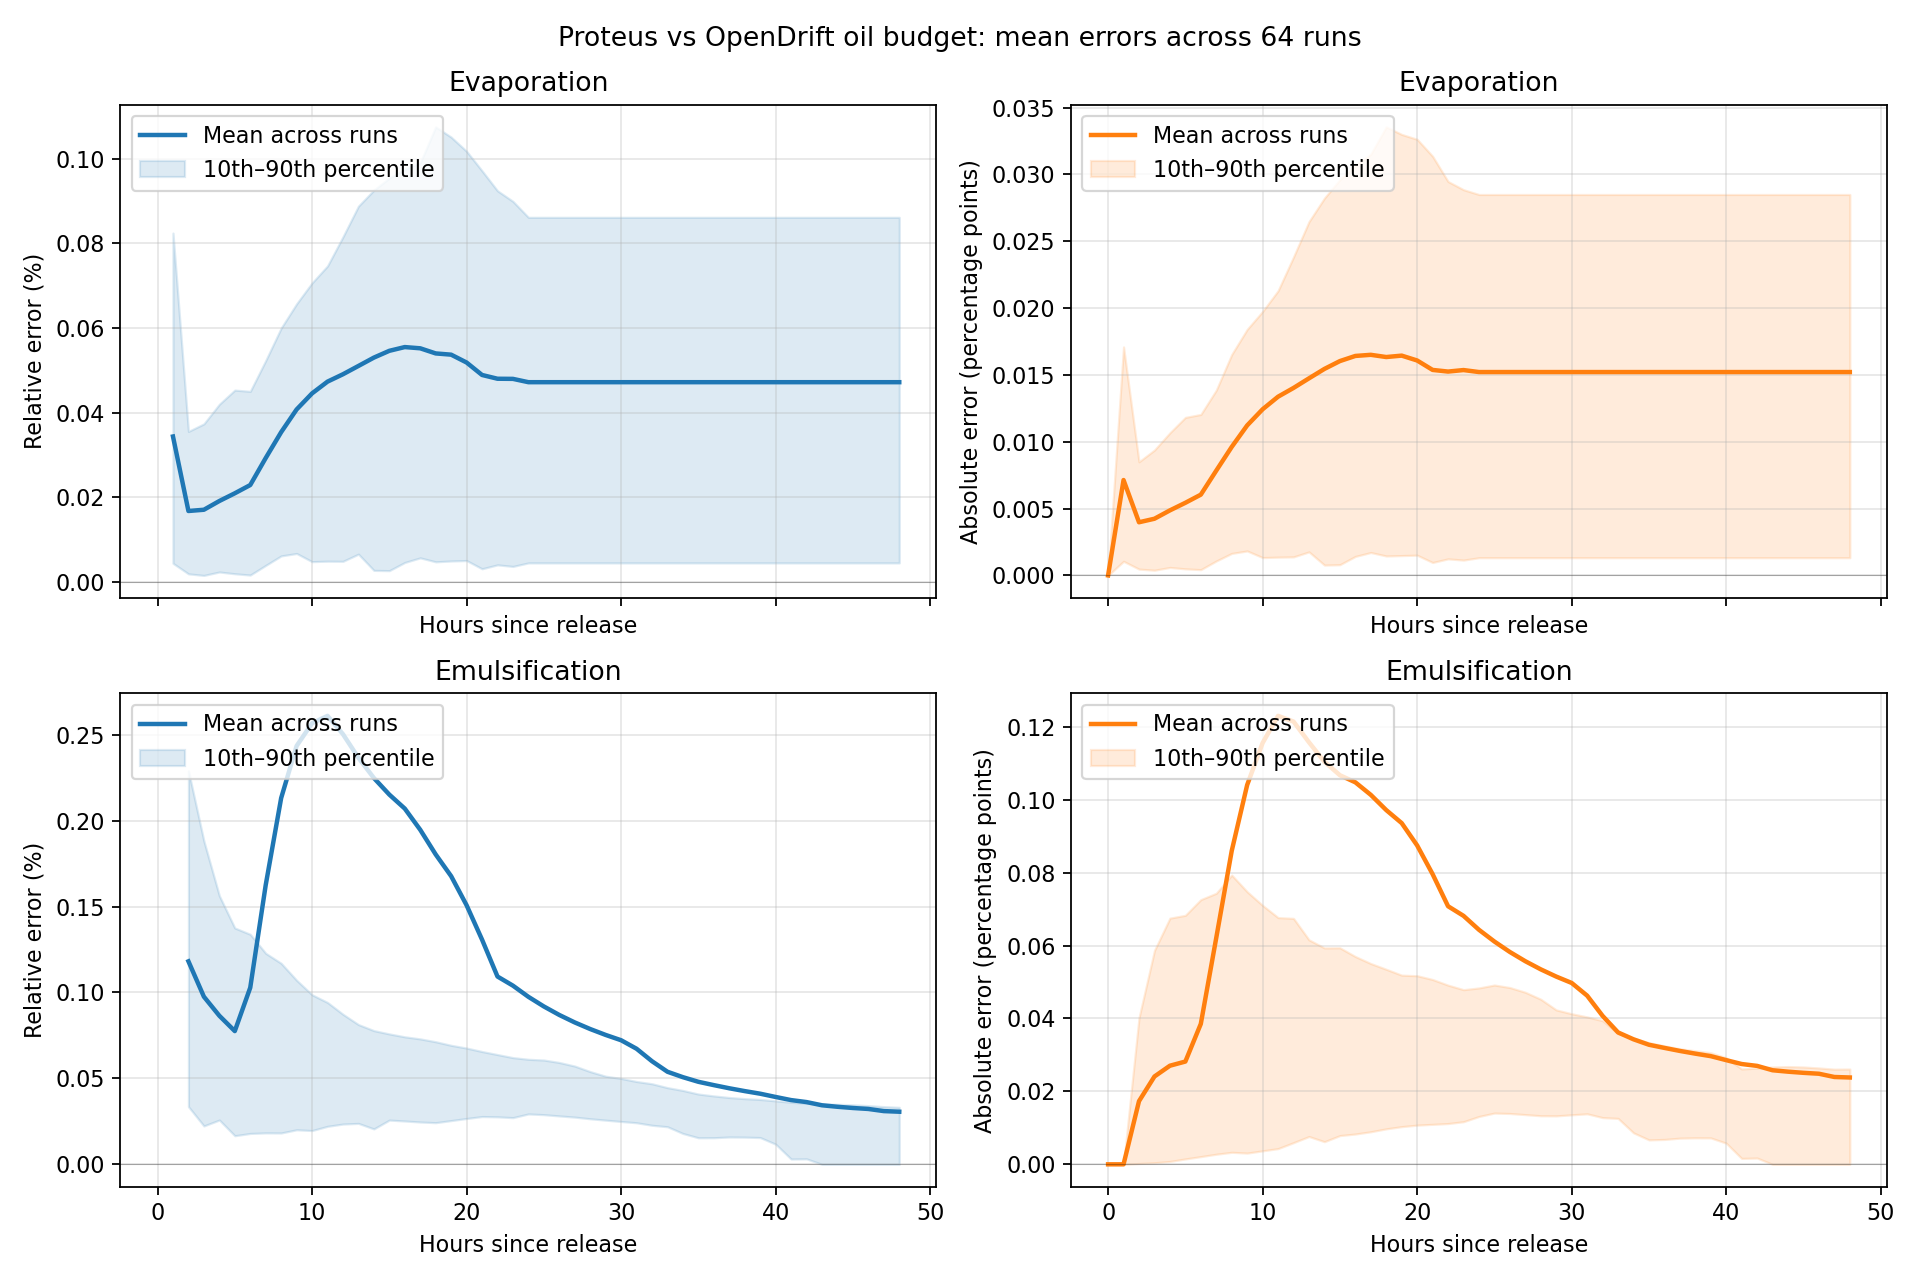
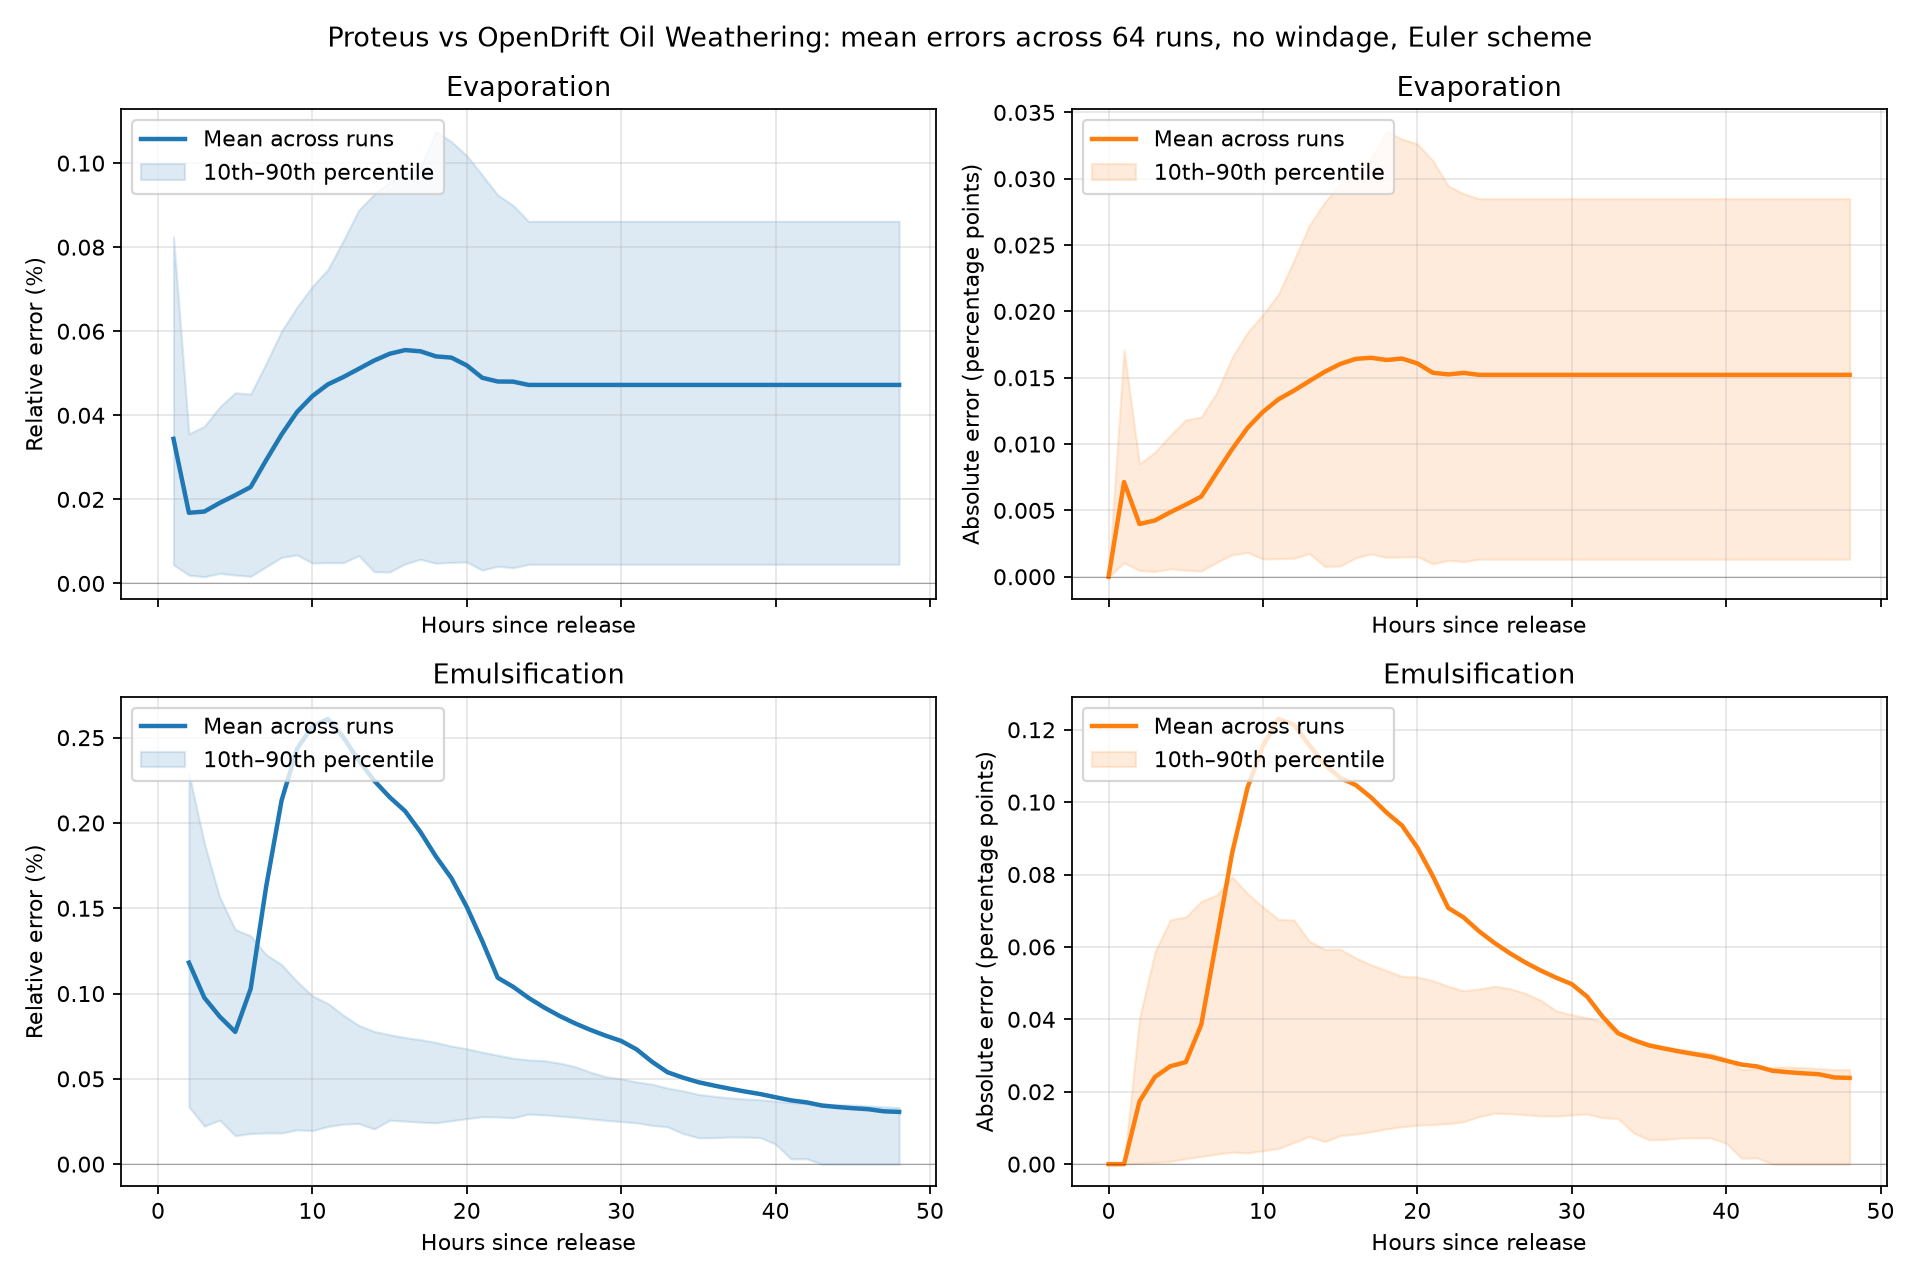
changed readme, refactored generic and leeway validation suites to be directory-agnostic by resoluving filepaths relative to suite directory. changed graph titles

diff --git a/validation/leeway/run.py b/validation/leeway/run.py
@@ -10,7 +10,7 @@ Each run writes:
     config.json          (the CLI config used)
     meta.json            (release point, run index, timing)
 
-Run from validation/leeway/.
+Run from any directory; paths are relative to validation/leeway/.
 """
 import json
 import sys
@@ -23,7 +23,8 @@ import numpy as np
 from opendrift.models.leeway import Leeway
 from opendrift.readers import reader_netCDF_CF_generic
 
-sys.path.insert(0, str(Path(__file__).resolve().parent.parent))
+HERE = Path(__file__).resolve().parent
+sys.path.insert(0, str(HERE.parent))
 
 from shared.opendrift_utils import (
     prepare_ecmwf_netcdf as prepare_ecmwf_netcdf_shared,
@@ -35,9 +36,9 @@ from shared.proteus_utils import run_cli as run_cli_shared
 # ---------------------------------------------------------------------------
 # Config
 # ---------------------------------------------------------------------------
-SMOC_PATH = Path("../forcing/currents/smoc_20260919.nc")
-ECMWF_GRIB = Path("../forcing/wind/ecmwf_2026-09-19_00z.grib2")
-ECMWF_NC = Path("../forcing/wind/ecmwf_2026-09-19_00z.nc")
+SMOC_PATH = (HERE.parent / "forcing/currents/smoc_20260919.nc")
+ECMWF_GRIB = (HERE.parent / "forcing/wind/ecmwf_2026-09-19_00z.grib2")
+ECMWF_NC = (HERE.parent / "forcing/wind/ecmwf_2026-09-19_00z.nc")
 
 START_TIME = datetime(2026, 9, 19, 0, 0)
 DURATION_HOURS = 48
@@ -52,7 +53,7 @@ GRID_N = 8
 CLI_STEPS = DURATION_HOURS * (3600 // TIME_STEP_SECONDS)
 CLI_TIME_STEP_MINUTES = TIME_STEP_SECONDS / 60.0
 
-RUNS_DIR = Path("runs")
+RUNS_DIR = HERE / "runs"
 
 
 # ---------------------------------------------------------------------------

diff --git a/validation/generic/run.py b/validation/generic/run.py
@@ -10,7 +10,7 @@ Each run writes:
     config.json          (the CLI config used)
     meta.json            (release point, run index, timing)
 
-Run from validation/generic/.
+Run from any directory; paths are relative to validation/generic/.
 """
 import json
 import sys
@@ -23,7 +23,8 @@ import numpy as np
 from opendrift.models.oceandrift import OceanDrift
 from opendrift.readers import reader_netCDF_CF_generic
 
-sys.path.insert(0, str(Path(__file__).resolve().parent.parent))
+HERE = Path(__file__).resolve().parent
+sys.path.insert(0, str(HERE.parent))
 
 from shared.opendrift_utils import (
     prepare_ecmwf_netcdf as prepare_ecmwf_netcdf_shared,
@@ -35,9 +36,9 @@ from shared.proteus_utils import run_cli as run_cli_shared
 # ---------------------------------------------------------------------------
 # Config
 # ---------------------------------------------------------------------------
-SMOC_PATH = Path("../forcing/currents/smoc_20260919.nc")
-ECMWF_GRIB = Path("../forcing/wind/ecmwf_2026-09-19_00z.grib2")
-ECMWF_NC = Path("../forcing/wind/ecmwf_2026-09-19_00z.nc")
+SMOC_PATH = (HERE.parent / "forcing/currents/smoc_20260919.nc")
+ECMWF_GRIB = (HERE.parent / "forcing/wind/ecmwf_2026-09-19_00z.grib2")
+ECMWF_NC = (HERE.parent / "forcing/wind/ecmwf_2026-09-19_00z.nc")
 
 START_TIME = datetime(2026, 9, 19, 0, 0)
 DURATION_HOURS = 48
@@ -55,7 +56,7 @@ CLI_TIME_STEP_MINUTES = TIME_STEP_SECONDS / 60.0
 WIND_FACTOR = 0.00
 WIND_DEFLECTION = 0.0
 
-RUNS_DIR = Path("runs")
+RUNS_DIR = HERE / "runs"
 
 
 # ---------------------------------------------------------------------------

diff --git a/validation/leeway/analyze.py b/validation/leeway/analyze.py
@@ -3,19 +3,20 @@
 import sys
 from pathlib import Path
 
-sys.path.insert(0, str(Path(__file__).resolve().parent.parent))
+HERE = Path(__file__).resolve().parent
+sys.path.insert(0, str(HERE.parent))
 
 from shared.analysis import analyze_runs
 
 
 def main():
     analyze_runs(
-        Path("runs"),
-        Path("error_vs_step_pct.csv"),
-        Path("error_vs_step_abs.csv"),
-        Path("error_vs_step.png"),
-        "DriftMap Search and Rescue vs OpenDrift Leeway: centroid error "
-        "across {n_runs} runs, 100,000 particles, Euler",
+        HERE / "runs",
+        HERE / "error_vs_step_pct.csv",
+        HERE / "error_vs_step_abs.csv",
+        HERE / "error_vs_step.png",
+        "Proteus vs OpenDrift Leeway: centroid error "
+        "across {n_runs} runs, 100,000 particles, Euler scheme",
         "simulation step (hours since release)",
     )
 

diff --git a/validation/generic/analyze.py b/validation/generic/analyze.py
@@ -3,19 +3,20 @@
 import sys
 from pathlib import Path
 
-sys.path.insert(0, str(Path(__file__).resolve().parent.parent))
+HERE = Path(__file__).resolve().parent
+sys.path.insert(0, str(HERE.parent))
 
 from shared.analysis import analyze_runs
 
 
 def main():
     analyze_runs(
-        Path("runs"),
-        Path("error_vs_step_pct.csv"),
-        Path("error_vs_step_abs.csv"),
-        Path("error_vs_step.png"),
-        "DriftMap Generic Drift vs OpenDrift OceanDrift: centroid error "
-        "across {n_runs} runs, RK4",
+        HERE / "runs",
+        HERE / "error_vs_step_pct.csv",
+        HERE / "error_vs_step_abs.csv",
+        HERE / "error_vs_step.png",
+        "Proteus vs Opendrift Ocean Drift: centroid error "
+        "across {n_runs} runs, no windage, RK4 scheme",
         "simulation step (hours since release)",
     )
 

diff --git a/validation/oil/analyze.py b/validation/oil/analyze.py
@@ -99,7 +99,7 @@ def main():
             writer.writerows({names.get(key, key): value for key, value in row.items()}
                              for row in stats)
         print(f"Wrote {path}")
-    fig.suptitle(f"Proteus vs OpenDrift oil budget: mean errors across {n_runs} runs")
+    fig.suptitle(f"Proteus vs OpenDrift Oil Weathering: mean errors across {n_runs} runs, no windage, Euler scheme")
     fig.tight_layout()
     fig.savefig(HERE / "error_vs_step.png", dpi=160)
     plt.close(fig)

diff --git a/README.md b/README.md
@@ -1,10 +1,10 @@
 DriftMap2D is a client-side, multi-tracer Lagrangian particle tracking model that runs entirely in the browser via WebAssembly. It is primarily used to determine the fate and trajectory of simulated tracers (such as oil or a search and rescue object) in the ocean.
 
-DriftMap2D performs all modelling calculations client-side. It achieves this by streaming processed and tiled hydrodynamical data from a CDN ahead of simulation time, and by using a rust engine compiled to WASM to interpolate, integrate, and apply tracer-specific physics, DriftMap2D can complete drift simulations in seconds with real-time visualization.
+Driftmap2D streams processed and tiled hydrodynamical data from a CDN ahead of simulation time. The Proteus engine, written in Rust and compiled to WASM then uses these streamed fields to interpolate, integrate, and apply tracer-specific physics on the fly, allowing DriftMap2D to complete drift simulations in seconds with real-time visualization.
 
 <img src="driftAnimation.gif">
 
-DriftMap2D currently supports the following tracer modules:
+DriftMap2D and Proteus currently support the following tracer modules:
 
     - Generic Drift
     - Oil Weathering
@@ -18,7 +18,7 @@ https://github.com/NOAA-ORR-ERD/PyGnome
 Search and Rescue is a port of OpenDrift's Leeway model and supports all 85 Leeway objects provided by OpenDrifts' object property database.
 https://github.com/OpenDrift/opendrift/blob/master/opendrift/models/OBJECTPROP.DAT
 
-DriftMap's modules have been cross-validated against OpenDrift:
+DriftMap2D and PROTEUS' modules have been cross-validated against OpenDrift:
 
 <img src="validation\generic\error_vs_step.png">
 <img src="validation\oil\error_vs_step.png">
